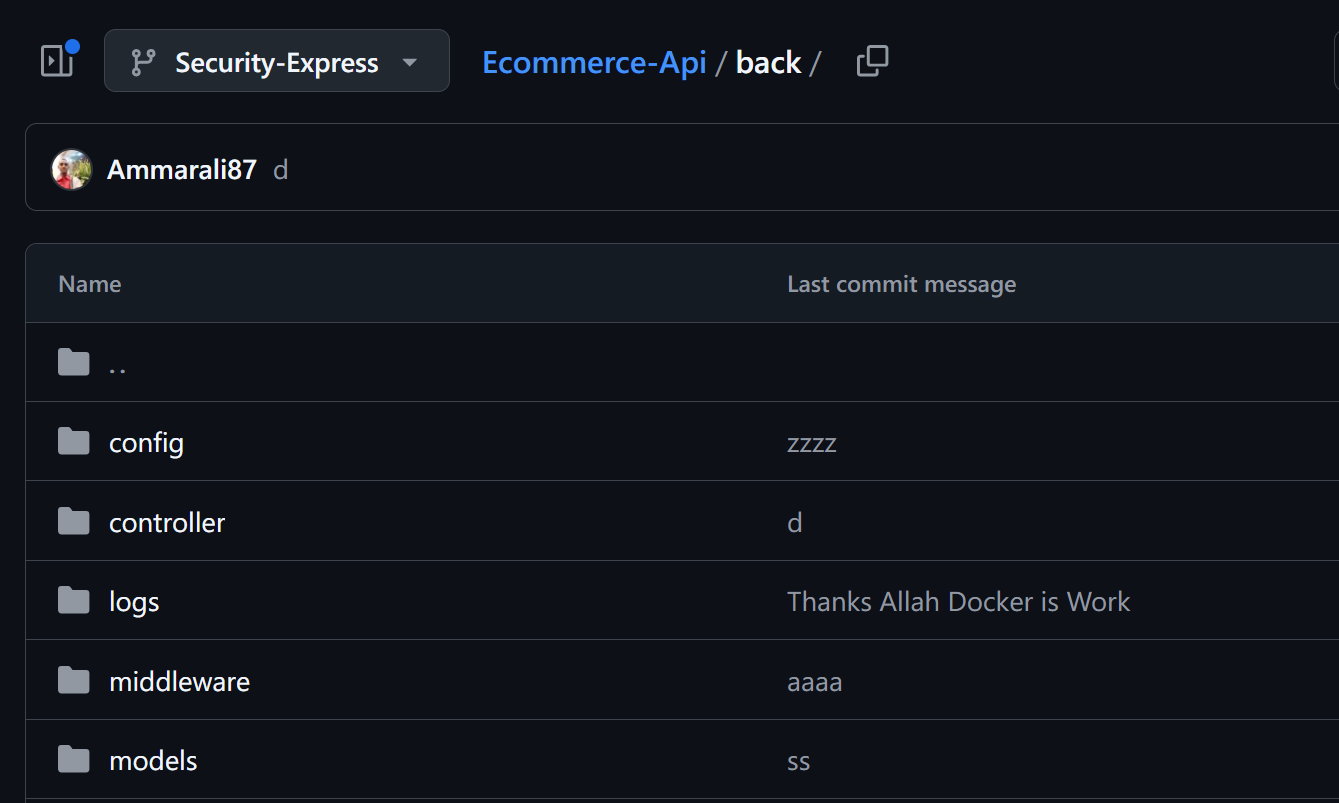
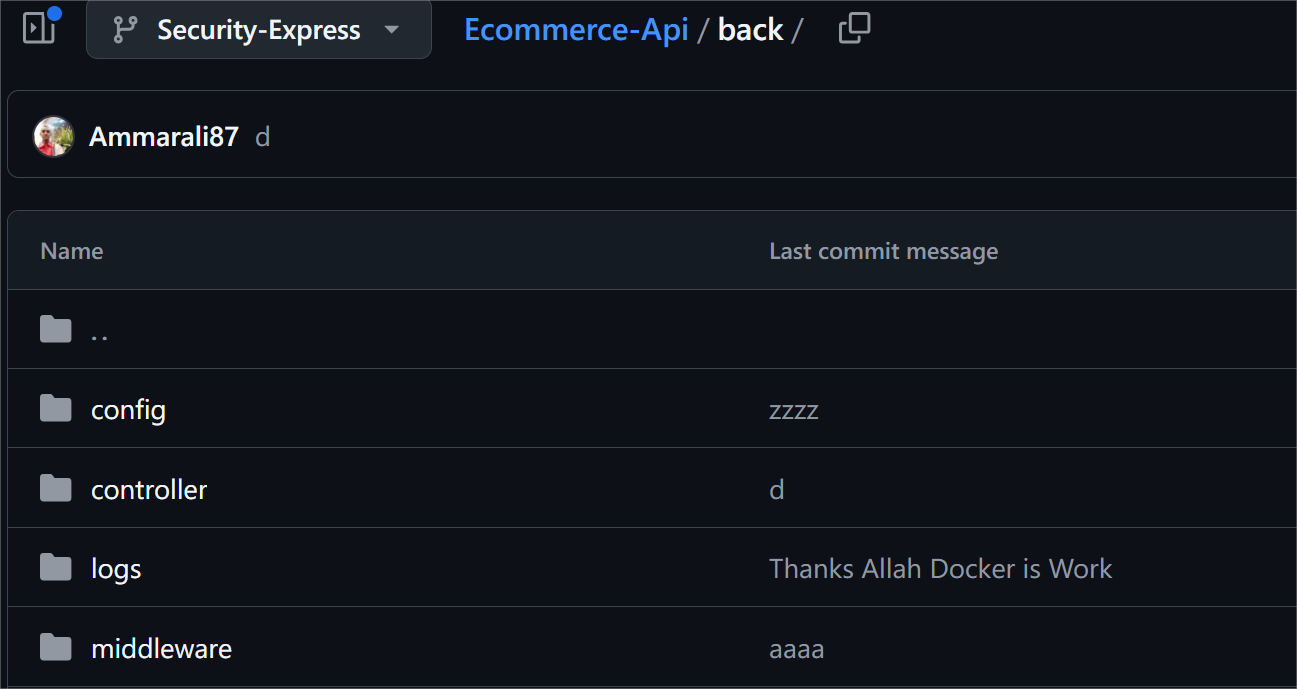
done Thank to Allah

diff --git a/components/Navbar/Navbar.tsx b/components/Navbar/Navbar.tsx
@@ -112,89 +112,3 @@ export default function Navbar() {
   );
 }
 
-
-
-
-
-// 'use client';
-
-// import { useState } from 'react';
-// import Link from 'next/link';
-// import Image from 'next/image';
-
-// const navItems = [
-//   { path: '/', name: 'Home' },
-//   { path: '/#about', name: 'About' },
-//   { path: '/#contact', name: 'Contact' },
-// ];
-
-// export default function Navbar() {
-//   const [open, setOpen] = useState(false);
-
-//   return (
-//     <>
-//       <nav className="w-full bg-[#003888] text-white shadow-md fixed top-0 left-0 z-[9999]">
-//         <div className="max-w-6xl mx-auto flex items-center justify-between px-4 py-3">
-//           {/* Logo */}
-//           <div className="flex items-center gap-2">
-//             <Image src="/amar.png" alt="logo" width={40} height={40} className="rounded-full" />
-//             <span className="font-bold hover:text-yellow-300 transition text-xl">Amar Ali</span>
-//           </div>
-
-//           {/* Desktop menu */}
-//           <ul className="hidden md:flex gap-8 font-semibold">
-//             {navItems.map(({ path, name }) => (
-//               <li key={name} className="group relative">
-//                 <Link
-//                   href={path}
-//                   className="transition-colors duration-300 hover:text-yellow-300"
-//                 >
-//                   {name}
-//                 </Link>
-//                 <span className="absolute bottom-[-4px] left-0 w-0 h-[2px] bg-yellow-300 group-hover:w-full transition-all duration-300"></span>
-//               </li>
-//             ))}
-//           </ul>
-
-//           {/* Hamburger menu icon */}
-//           <button
-//             className="md:hidden flex flex-col gap-1"
-//             aria-label="Toggle menu"
-//             onClick={() => setOpen((prev) => !prev)}
-//           >
-//             <span className={`block w-7 h-1 bg-white rounded transition-all ${open ? 'rotate-45 translate-y-2' : ''}`}></span>
-//             <span className={`block w-7 h-1 bg-white rounded transition-all ${open ? 'opacity-0' : ''}`}></span>
-//             <span className={`block w-7 h-1 bg-white rounded transition-all ${open ? '-rotate-45 -translate-y-2' : ''}`}></span>
-//           </button>
-//         </div>
-
-//         {/* Mobile menu */}
-//         <div
-//           className={`md:hidden bg-[#003888] transition-all duration-300 overflow-hidden ${
-//             open ? 'max-h-60 py-2' : 'max-h-0 py-0'
-//           }`}
-//         >
-//           <ul className="flex flex-col gap-4 px-6">
-//             {navItems.map(({ path, name }) => (
-//               <li key={name}>
-//                 <Link
-//                   href={path}
-//                   className="block active py-2 px-3 rounded hover:bg-white/10 hover:text-yellow-300 transition"
-//                   onClick={() => setOpen(false)}
-//                 >
-//                   {name}
-//                 </Link>
-//               </li>
-//             ))}
-//           </ul>
-//         </div>
-//       </nav>
-
-//       {/* Bottom Margin Spacer to avoid content being hidden behind fixed navbar */}
-//       <div className="mb-11" />
-//     </>
-//   );
-// }
-
-
-

diff --git a/components/TechSlider/TechSlider.tsx b/components/TechSlider/TechSlider.tsx
@@ -1,0 +1,63 @@
+import React, { useEffect, useRef } from 'react';
+
+const items = [
+  'https://upload.wikimedia.org/wikipedia/commons/a/a7/React-icon.svg', // React
+  'https://seeklogo.com/images/N/next-js-logo-7929BCD36F-seeklogo.com.png', // Next.js
+  'https://nodejs.org/static/images/logo.svg', // Node.js
+  'https://upload.wikimedia.org/wikipedia/commons/6/64/Expressjs.png', // Express.js
+  "https://www.svgrepo.com/show/374118/tailwind.svg",// Tailwind CSS 
+  'https://webassets.mongodb.com/_com_assets/cms/mongodb_logo1-76twgcu2dm.png', // MongoDB
+  'https://mui.com/static/logo.png', // Material UI
+  'https://getbootstrap.com/docs/5.0/assets/brand/bootstrap-logo-shadow.png', // Bootstrap
+];
+
+const TechSlider: React.FC = () => {
+  const containerRef = useRef<HTMLDivElement>(null);
+
+  useEffect(() => {
+    const container = containerRef.current;
+    if (!container) return;
+
+    let position = 0;
+    const itemWidth = 220;
+    const speed = 1;
+
+    const move = () => {
+      position -= speed;
+      container.style.transform = `translateX(${position}px)`;
+
+      if (Math.abs(position) >= itemWidth * items.length) {
+        position = 0;
+      }
+
+      requestAnimationFrame(move);
+    };
+
+    move();
+  }, []);
+
+  return (
+    <div className="overflow-hidden w-full border p-4 rounded-xl h-[180px]">
+      <div
+        ref={containerRef}
+        className="flex gap-6"
+        style={{ width: `${items.length * 220 * 2}px` }}
+      >
+        {items.concat(items).map((item, index) => (
+          <div
+            key={index}
+            className="bg-gray-200 rounded-lg flex items-center justify-center w-[220px] h-[150px]"
+          >
+            <img
+              src={item}
+              alt={`item-${index}`}
+              className="w-full h-full object-contain rounded-lg"
+            />
+          </div>
+        ))}
+      </div>
+    </div>
+  );
+};
+
+export default TechSlider;

diff --git a/app/page.tsx b/app/page.tsx
@@ -1,7 +1,7 @@
 'use client';
 import React from 'react';
 import Slider from "../components/Slider/Slider";
-// import TechSlider from "../components/TechSlider/TechSlider";
+import TechSlider from "../components/TechSlider/TechSlider";
 import AnimateText from '@/components/AnimateText/AnimateText';
 import About from "@/components/About/About"
 import Contact from "@/components/Contact/Contact"
@@ -32,9 +32,14 @@ export default function Home() {
           src="/vid.mp4"
           aria-label="Background Video"
         />
-
-
-
+      <div className=" w-full text-center mb-24">
+      <h2 className=' text-2xl rounded-lg p-3 bg-[#003888] mb-3'>
+         Tech we use 
+         </h2>
+         <div className=" bg-[#003888]/30">
+      <TechSlider/>
+         </div>
+       </div>
 
       <section className="w-full max-w-6xl text-center bg-[#2D3748] p-8 rounded-lg shadow-lg mb-8">
         <h2 className="text-5xl text-center text-gray-100 mb-4">Services</h2>

diff --git a/components/AnimateText/AnimateText.tsx b/components/AnimateText/AnimateText.tsx
@@ -6,7 +6,7 @@ export default function AnimateText(){
     const [displayedText, setDisplayedText] = useState("");
     const [index, setIndex] = useState(0);
     
-    const fullText = "Amar Ali ";
+    const fullText = "Amar Ali Full MERN Stack";
 
     useEffect(() => {
       if (index < fullText.length) {
